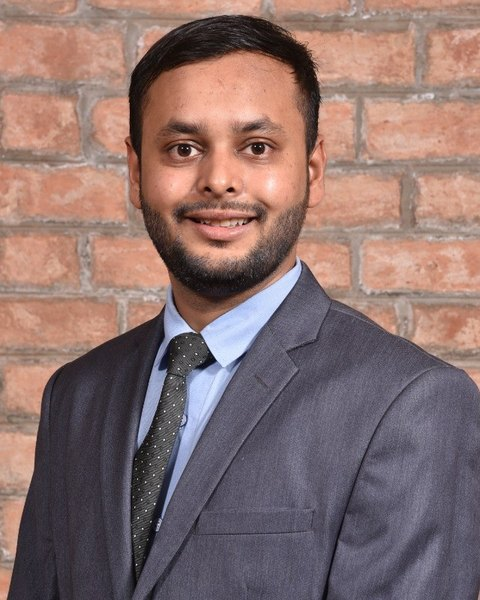
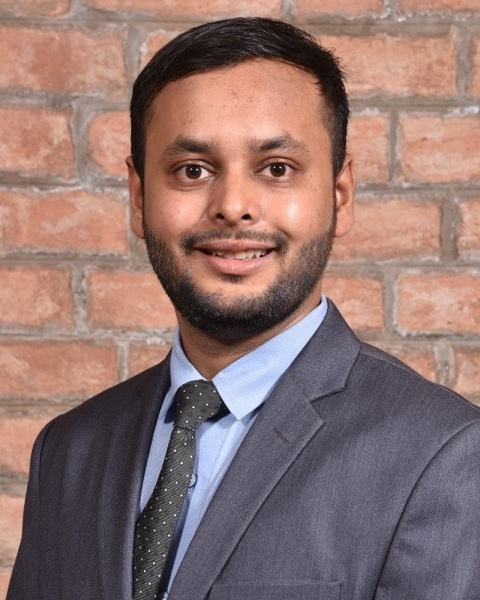
Team row: 15 s auto-advance, single arrow with progress ring, Divya crop, bio openers

diff --git a/components/TeamCarousel.tsx b/components/TeamCarousel.tsx
@@ -6,10 +6,10 @@ import type { TEAM } from "@/lib/content";
 type Person = (typeof TEAM)[number];
 
 /* The team, founders first. Desktop: one row, three cards in view, arrows to move, and a slow auto-advance
-   (every 25 s) that pauses on hover, keyboard focus, an open "Read more", or reduced-motion settings.
+   (every 15 s) that pauses on hover, keyboard focus, an open "Read more", or reduced-motion settings.
    Phone: a plain vertical list. Every card shows its first paragraph; the rest sits behind "Read more". */
 
-const ROTATE_MS = 25000;
+const ROTATE_MS = 15000;
 
 function Card({ p, open, onToggle }: { p: Person; open: boolean; onToggle: () => void }) {
   const [first, ...rest] = p.bio;
@@ -81,8 +81,7 @@ export default function TeamCarousel({ people }: { people: Person[] }) {
     return () => window.clearTimeout(t);
   }, [idx, paused, anyOpen, last, go]);
 
-  const btn =
-    "grid h-11 w-11 place-items-center rounded-full border border-gold/60 text-rose transition-colors hover:border-gold hover:bg-gold hover:text-maroon disabled:opacity-40";
+  const running = last > 0 && !paused && !anyOpen;
 
   return (
     <>
@@ -95,7 +94,7 @@ export default function TeamCarousel({ people }: { people: Person[] }) {
 
       {/* Desktop: rotating row of three */}
       <div
-        className="hidden md:block"
+        className="relative hidden md:block"
         role="region"
         aria-roledescription="carousel"
         aria-label="Team"
@@ -120,17 +119,25 @@ export default function TeamCarousel({ people }: { people: Person[] }) {
           </ul>
         </div>
         {last > 0 && (
-          <div className="mt-8 flex items-center gap-3">
-            <button type="button" className={btn} onClick={() => go(-1)} aria-label="Previous profiles">
-              <span aria-hidden="true">←</span>
-            </button>
-            <button type="button" className={btn} onClick={() => go(1)} aria-label="Next profiles">
-              <span aria-hidden="true">→</span>
-            </button>
-            <p className="ml-2 font-display text-[14px] tabular-nums text-rose/70" aria-live="polite">
-              {idx + 1}–{Math.min(idx + PER, people.length)} of {people.length}
-            </p>
-          </div>
+          /* one arrow beside the third photo; the gold ring fills over the 15 s wait, so the row reads as moving */
+          <button
+            type="button"
+            onClick={() => go(1)}
+            aria-label={`Next profiles (showing ${idx + 1} to ${Math.min(idx + PER, people.length)} of ${people.length})`}
+            className="group absolute right-0 top-[clamp(110px,11vw,150px)] grid h-12 w-12 translate-x-1/2 place-items-center rounded-full bg-maroon text-rose shadow-[0_0_0_6px_var(--color-maroon)] transition-colors hover:text-gold"
+          >
+            <svg viewBox="0 0 48 48" className="absolute inset-0 h-full w-full -rotate-90" aria-hidden="true">
+              <circle cx="24" cy="24" r="22.5" fill="none" stroke="currentColor" strokeOpacity=".25" strokeWidth="1.5" />
+              <circle
+                key={idx}
+                cx="24" cy="24" r="22.5" fill="none" stroke="var(--color-gold)" strokeWidth="1.5"
+                pathLength={1} strokeDasharray="1" strokeDashoffset="1"
+                className="team-ring"
+                style={{ animationDuration: `${ROTATE_MS}ms`, animationPlayState: running ? "running" : "paused" }}
+              />
+            </svg>
+            <span aria-hidden="true" className="relative text-[20px] leading-none transition-transform duration-300 group-hover:translate-x-0.5">→</span>
+          </button>
         )}
       </div>
     </>

diff --git a/lib/content.ts b/lib/content.ts
@@ -90,7 +90,7 @@ export const PARTNERS = [
     photo: "/img/binit-agrawal.jpg",
     role: "Co-founder · Corporate, transactions, competition, technology",
     bio: [
-      "Binit advises on VC and PE deals, corporate work, competition law and technology regulation. He worked in the PE/VC team at Khaitan & Co, and filed merger notices before the CCI at Axiom5 Law Chambers, a competition boutique. He also trained for six months with the technology and corporate teams of Bae, Kim & Lee in Seoul. As Head of Strategy at Lucio, a legal AI company, he led its expansion abroad, fundraising and hiring.",
+      "Binit advises on transactions, corporate work and competition law. He worked in the PE/VC team at Khaitan & Co, and filed merger notices before the CCI at Axiom5 Law Chambers, a competition boutique. He also trained for six months with the technology and corporate teams of Bae, Kim & Lee in Seoul. As Head of Strategy at Lucio, a legal AI company, he led its expansion abroad, fundraising and hiring.",
       "He has worked as a consultant with UNDP, the Digital Cooperation Organisation in Saudi Arabia, Open Society Foundations and GIZ. He is an Affiliate Fellow of the Cyril Shroff Centre for AI, Law & Regulation, and has appeared before the Supreme Court, several High Courts and the NCLAT.",
     ],
     edu: ["B.A. LL.B. (Hons.), National Law School of India University", "M.A. LL.M., University of Vienna (European Master in Law and Economics)"],
@@ -102,7 +102,7 @@ export const PARTNERS = [
     photo: "/img/prannv-dhawan.jpg",
     role: "Co-founder · Disputes, constitutional and public law, tax",
     bio: [
-      "Prannv is an advocate enrolled with the Bar Council of Delhi. He clerked for Justice B.V. Nagarathna at the Supreme Court of India, then practised trial and appellate litigation at Farasat Law Offices before the Supreme Court and High Courts. Earlier, he worked in the international tax team at Deloitte, New York. He is a member of the Appeal Committee of the Delhi Soccer Association.",
+      "Prannv specialises in commercial disputes and tax matters. He clerked for Justice B.V. Nagarathna at the Supreme Court of India, then practised trial and appellate litigation at Farasat Law Offices before the Supreme Court and High Courts. Earlier, he worked in the international tax team at Deloitte, New York. He is a member of the Appeal Committee of the Delhi Soccer Association.",
       "He was a Research Associate at the Centre for Policy Research and a Visiting Researcher at the Centre de Sciences Humaines. He is Assisting Counsel to the Supreme Court Legal Services Committee and a special invitee to the Karnataka High Court’s Accessibility Committee.",
       "At Yale Law School he studied corporate and international tax. He was a Resident Fellow at the Information Society Project and is associated with the Paul Tsai China Center. He served as Editor of the Yale Journal on Regulation and the Yale Law & Policy Review. Through the Lowenstein International Human Rights Clinic, he advised domestic and international civil society organisations. He was also part of the Ludwig Program in Public Sector Leadership and holds the MacMillan Translation Fellowship.",
     ],

diff --git a/app/globals.css b/app/globals.css
@@ -357,3 +357,8 @@
 .ct .ct-lawyer { stroke: var(--color-maroon-ink); color: var(--color-maroon-ink); }
 .ct .thin { stroke-width: .6 !important; opacity: .75; }
 #pro-bono .note, .pb-note { font-size: clamp(20px, 1.7vw, 24px); letter-spacing: .1em; }
+
+/* Team row: gold ring around the arrow fills while the row waits to move */
+@keyframes team-ring { to { stroke-dashoffset: 0; } }
+.team-ring { animation: team-ring linear forwards; }
+@media (prefers-reduced-motion: reduce) { .team-ring { animation: none; stroke-dashoffset: 1; } }
